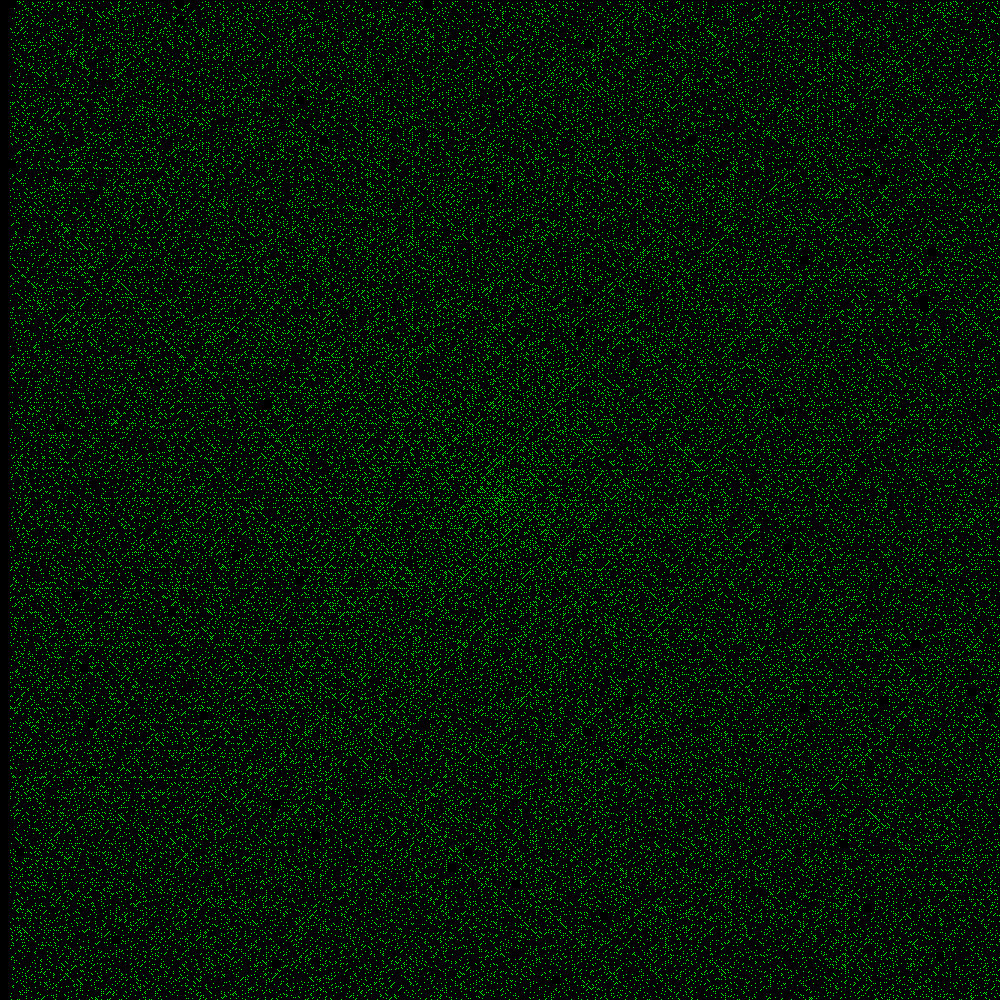
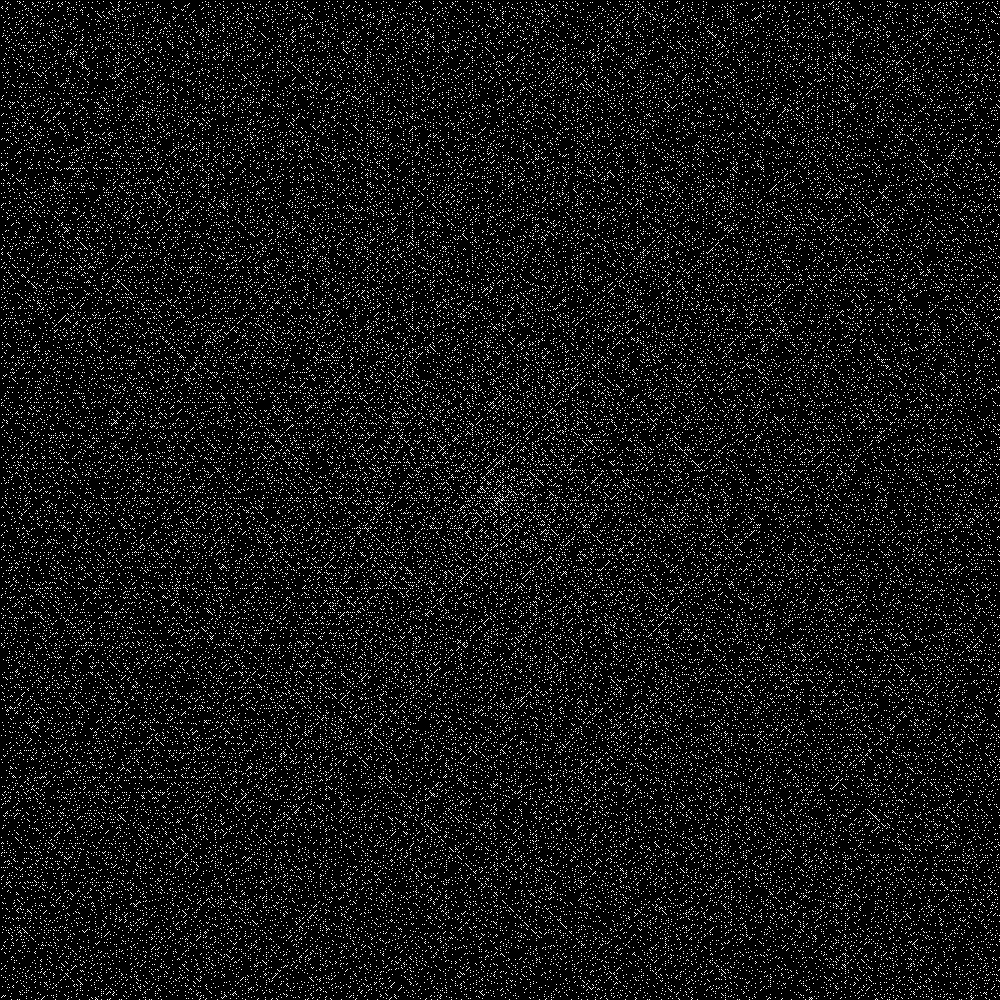
fix: repeated classes exclusion

diff --git a/src/computergraphics/UlamSpiral.java b/src/computergraphics/UlamSpiral.java
@@ -86,8 +86,8 @@ public class UlamSpiral extends JFrame {
 		gg.fillRect(0, 0, MAX_RES_X, MAX_RES_Y);
 		for (int i = 0; i < MAX_RES_X; i++) {
 			for (int j = 0; j < MAX_RES_Y; j++) {
-				g.setColor(matriz[j][i] ? Color.green : Color.black);
-				gg.setColor(matriz[j][i] ? Color.green : Color.black);
+				g.setColor(matriz[j][i] ? Color.white : Color.black);
+				gg.setColor(matriz[j][i] ? Color.white : Color.black);
 				g.drawLine(i, j, i, j);
 				gg.drawLine(i, j, i, j);
 			}

diff --git a/README.md b/README.md
@@ -46,13 +46,11 @@
 * RandomTriangles: diversos triângulos com tamanhos e cores aleatórias
 * RetasColoridas: retas coloridas no caleidoscópio
 * Rotacao: rotação de uma seta
-* RotacaoBemFeita: 
-* RotacaoMalFeita: rotação com erro de cálculo
+* RotacaoBemFeita: rotação de uma imagem
+* RotacaoMalFeita: rotação imperfeita
 * SavePicture: exibe e salva uma imagem aleatória em um arquivo PNG
-* SelectionSort: 
-* Stroke1: 
-* SwapRedForBlue: 
-* TesteCores: 
-* TesteRGB: 
-* TestInsertionSort: 
-* UlamSpiral: 
+* SelectionSort: selection sort animado
+* SwapRedForBlue: troca do componente azul pelo componente vermelho, e vice-versa, em um bitmap
+* TesteCores: teste de paleta para gerar as cores marrom, índigo, violeta
+* TesteRGB: teste de paleta RGB e CMY
+* UlamSpiral: implementação da [espiral de Ulam](https://en.wikipedia.org/wiki/Ulam_spiral)
